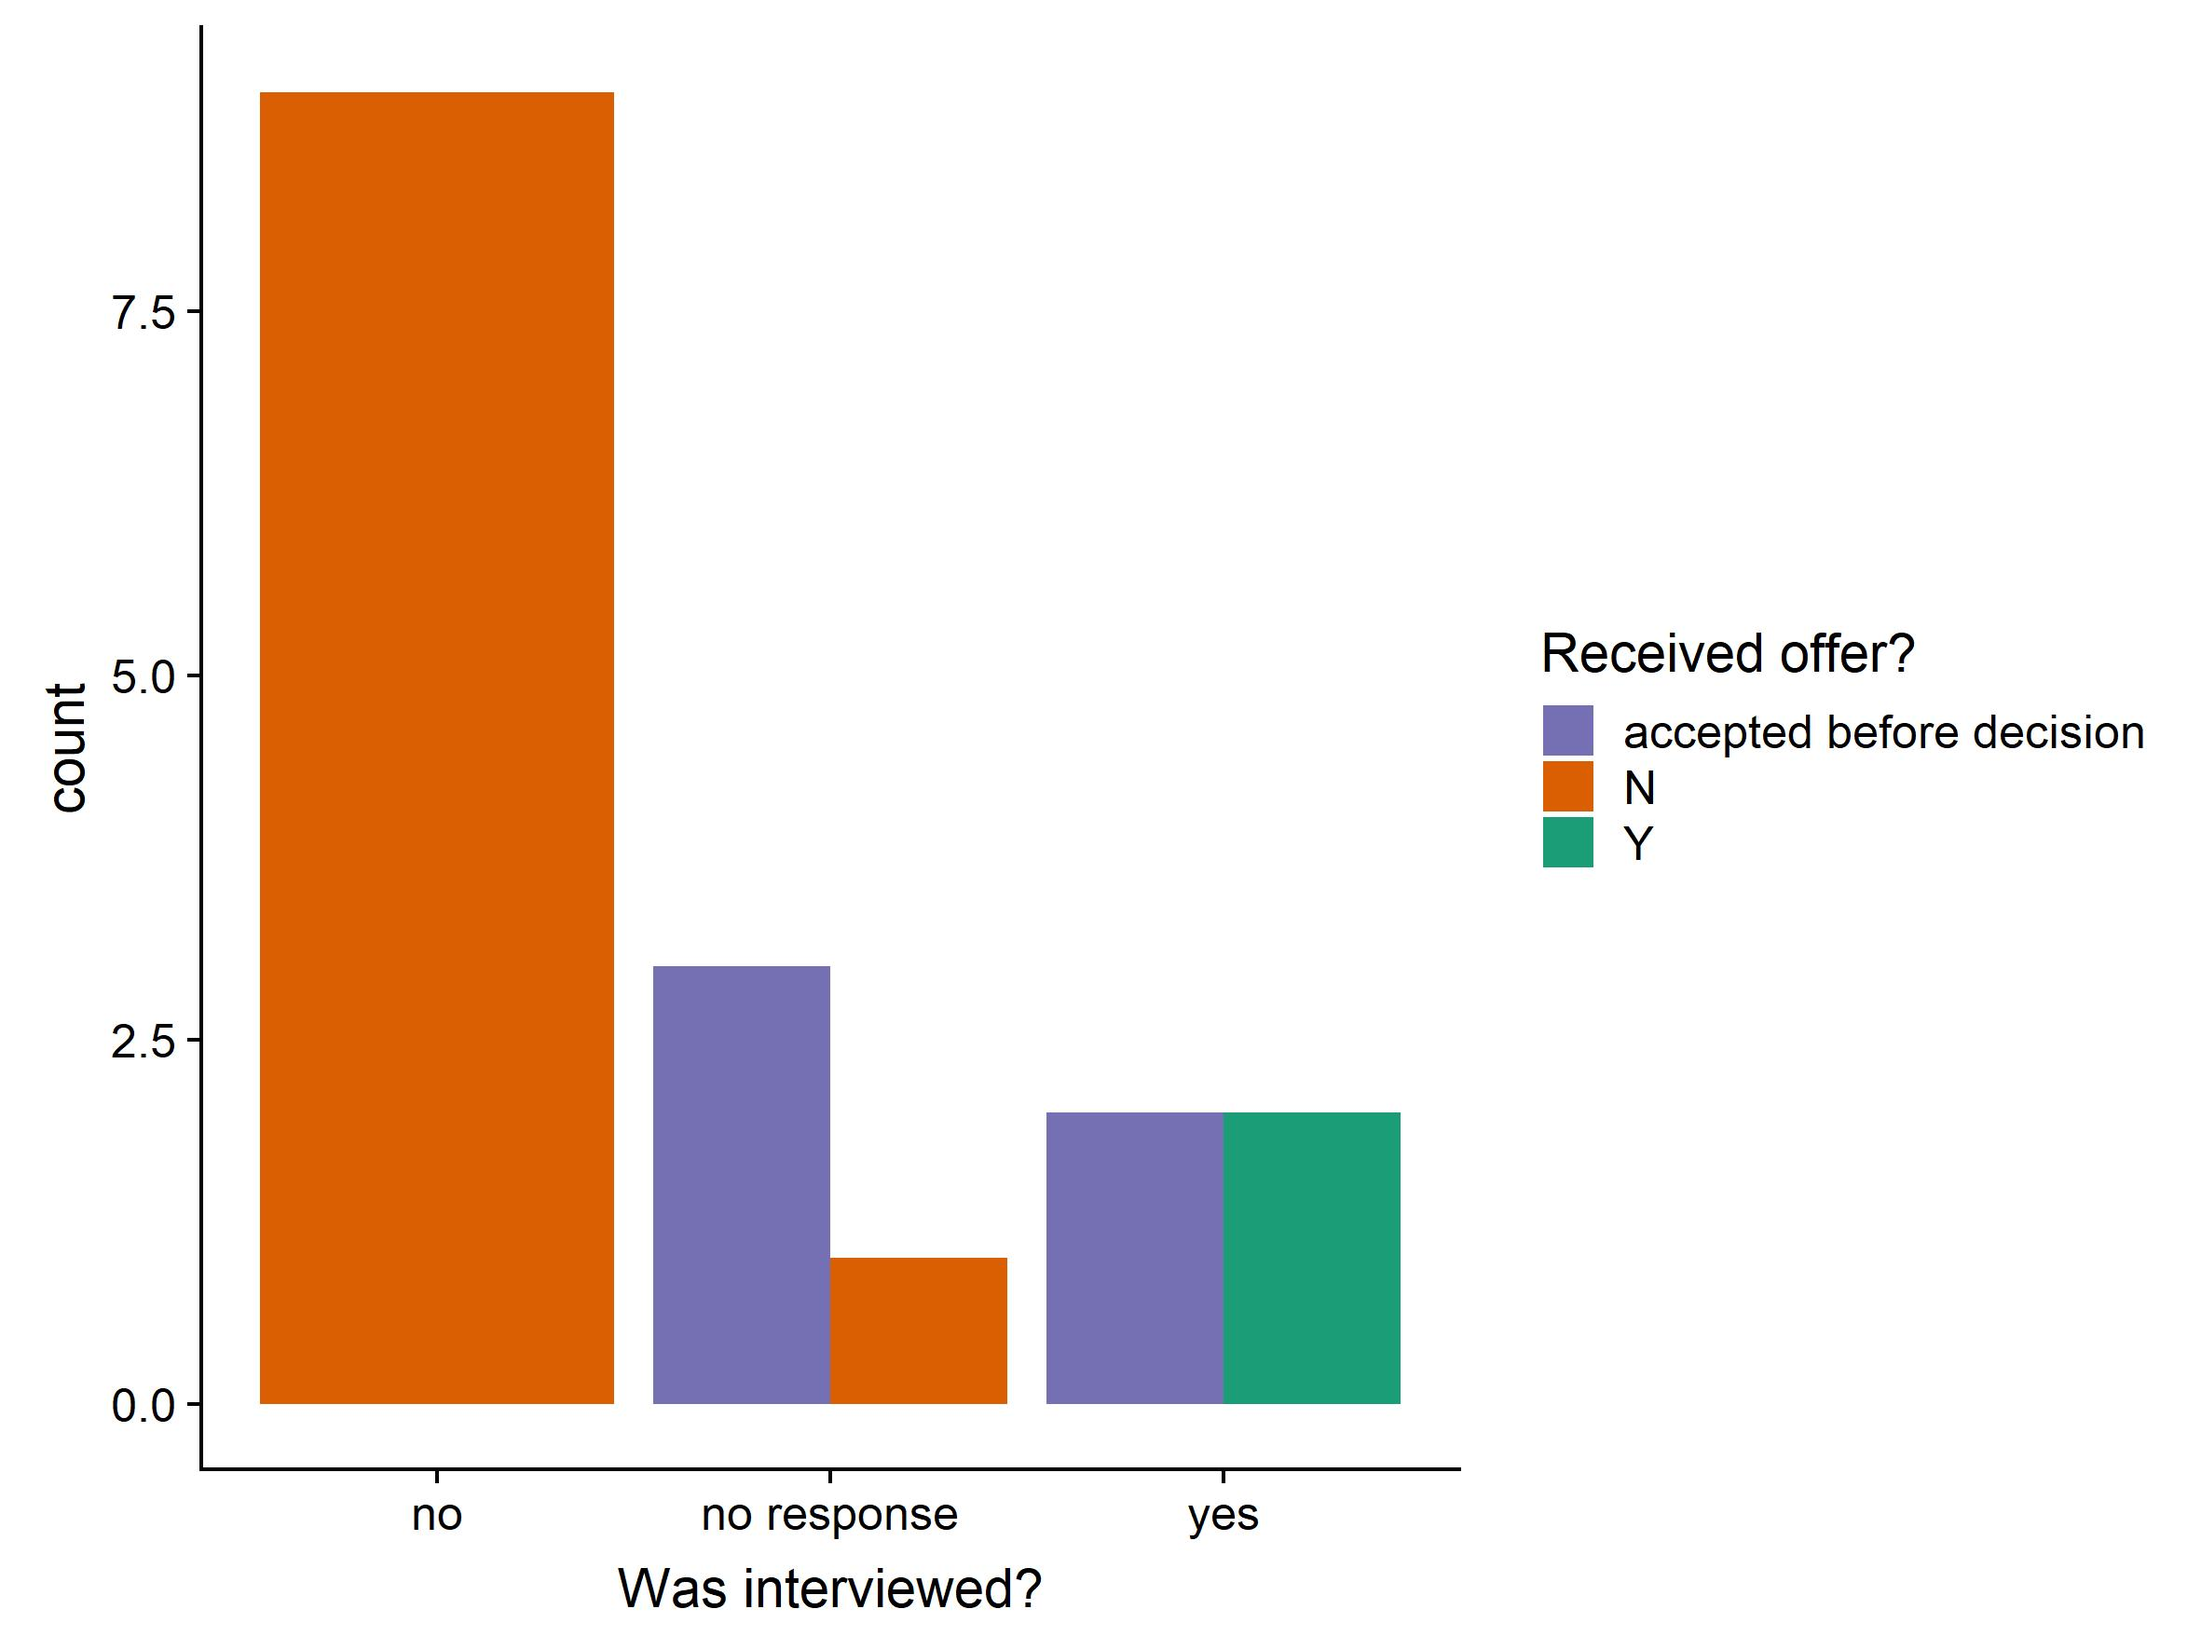
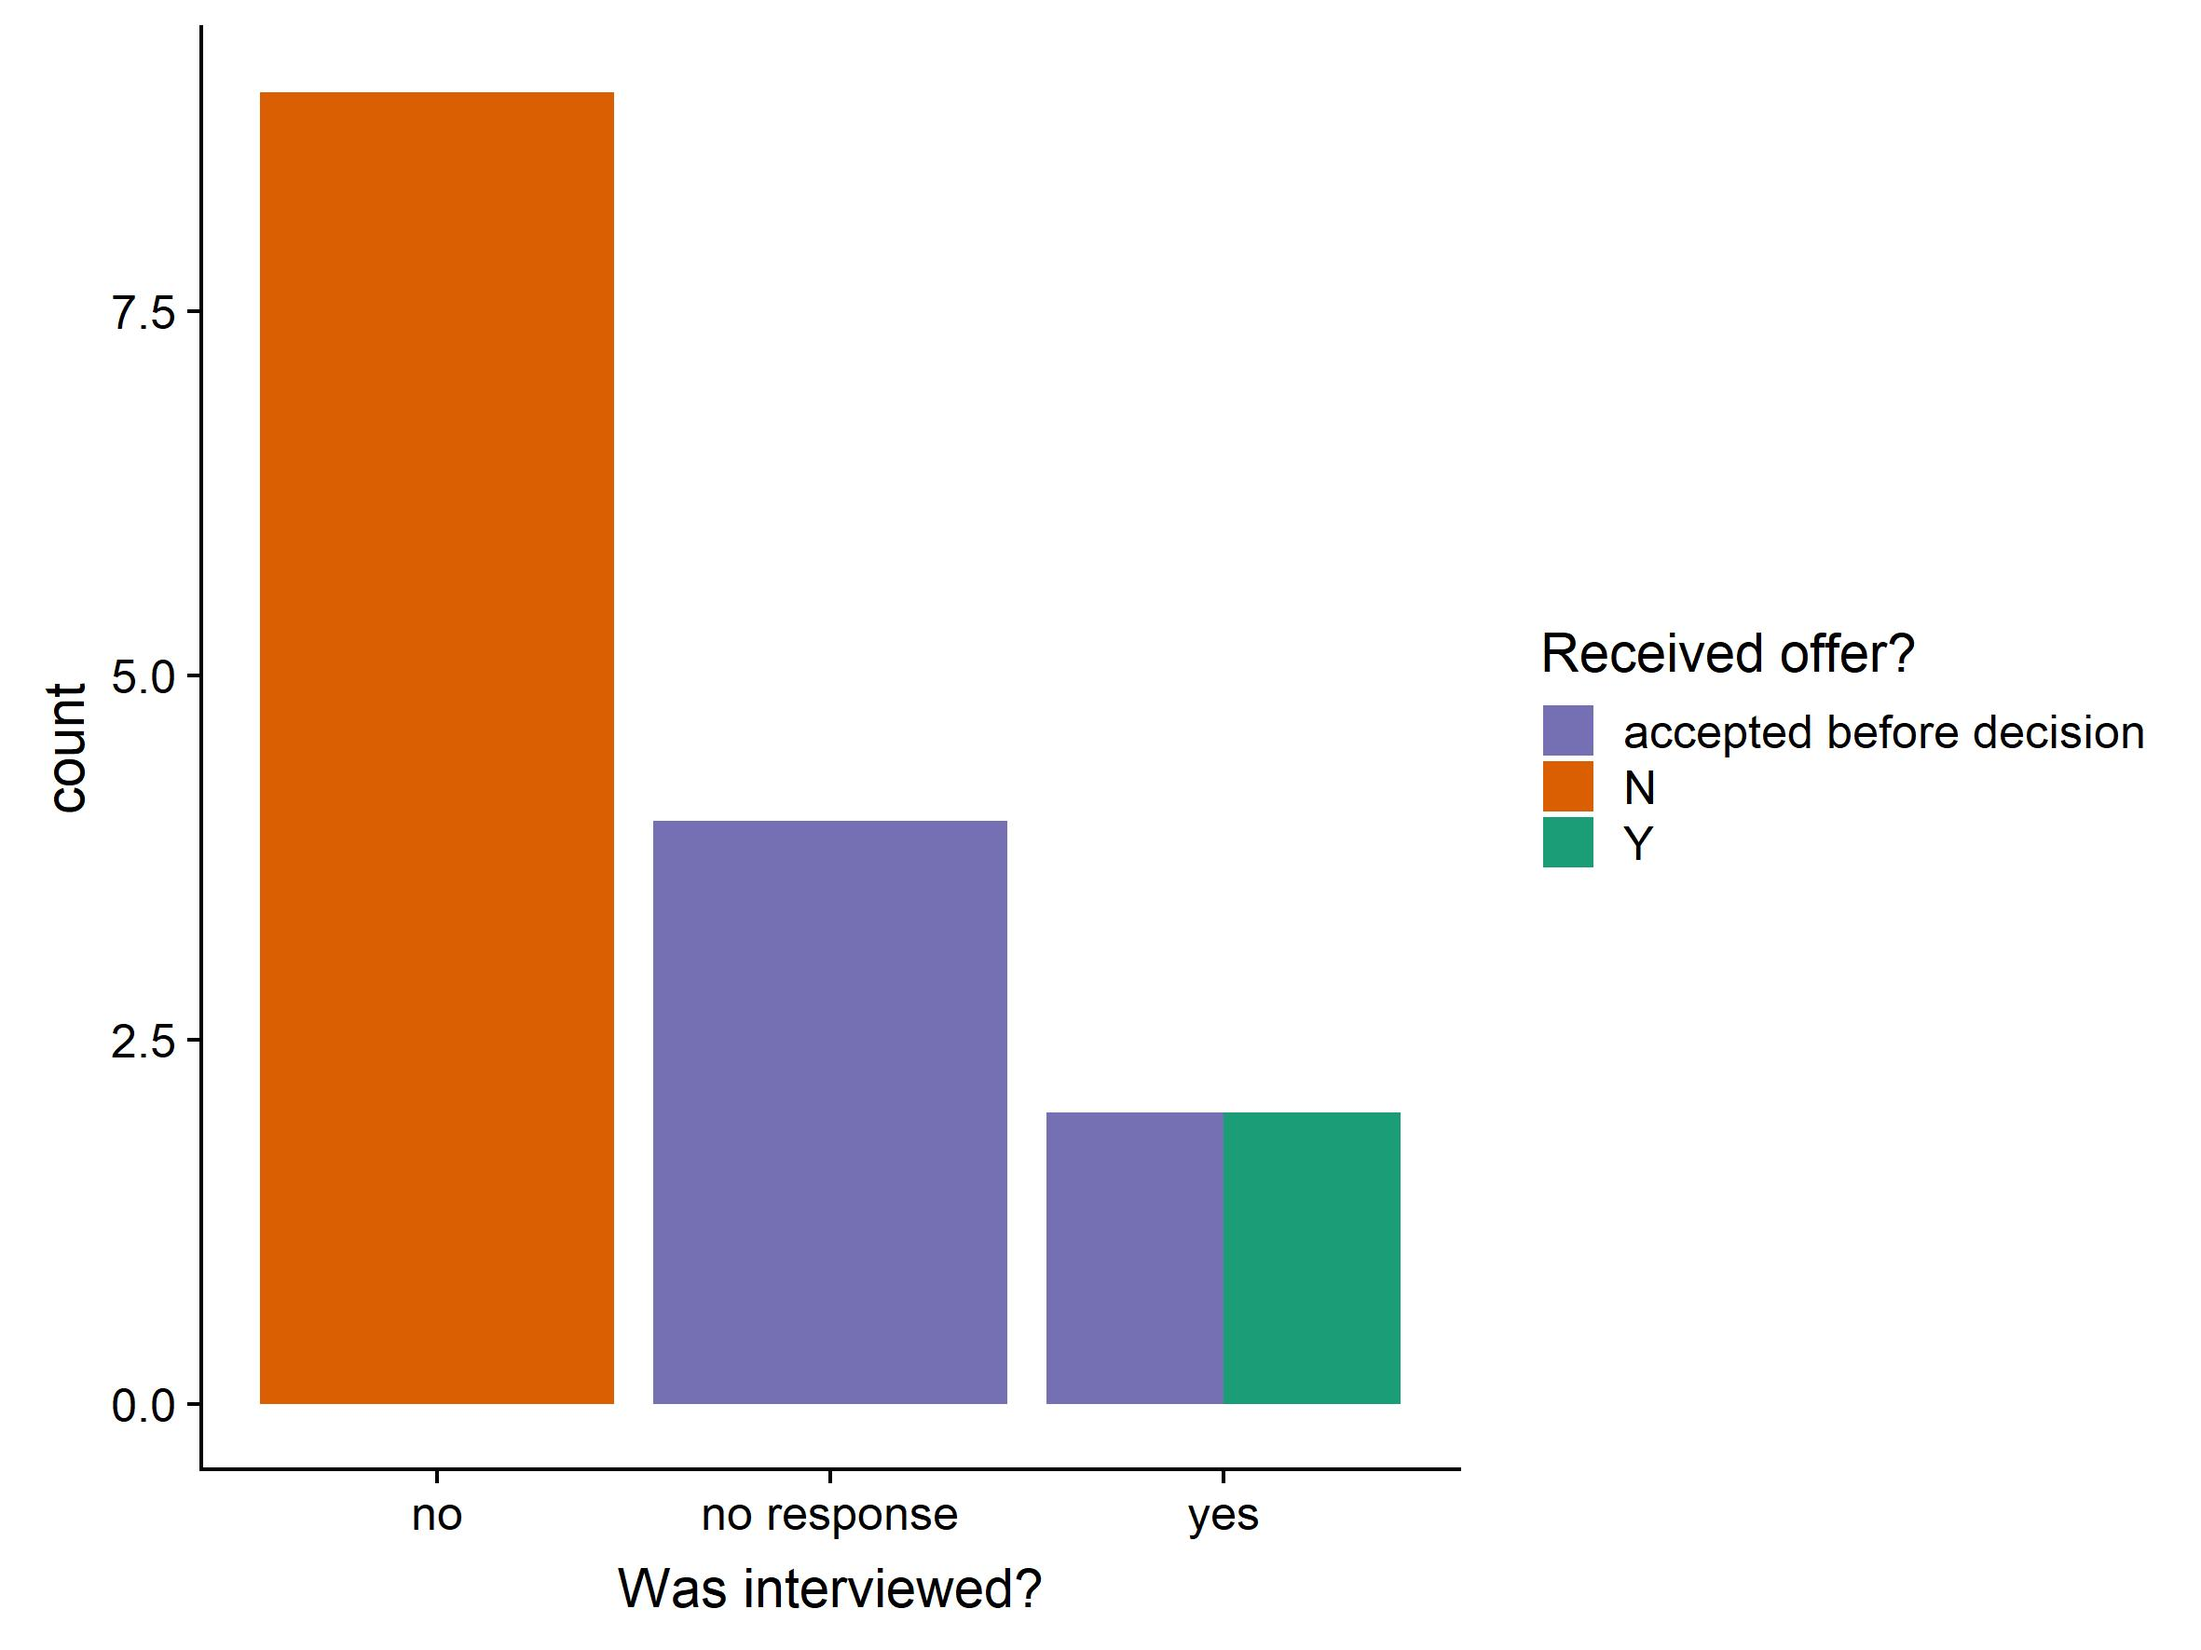
INHS job search data

Changed region(s): [[0.2782, 0.4969, 0.4636, 0.8696]]

diff --git a/rejection.md b/rejection.md
@@ -29,11 +29,16 @@ Image Description Bar chart showing year on the x axis, and count on the y, with
 
 
 ## Jobs 
-This is the data on the job search that resulted in my current position. 
+This is the data on the job search that resulted in my postdoc at Mississippi State University from 2017-2019.  
 
-<img   alt=""  src="https://raw.githubusercontent.com/aurielfournier/aurielfournier.github.io/master/images/jobs.jpeg">
+<img   alt=""  src="https://raw.githubusercontent.com/aurielfournier/aurielfournier.github.io/master/images/postdoc_jobs.jpeg">
 
 Image Description Bar Chart, showing that I applied for 40 jobs, and was not interviewed for 36 of them. Of the 4 I was interviewed for, I received 2 offers. 
 
 
+This is the data for the job search that resulted in my position at the Illinois Natural History Survey. 
+
+<img   alt=""  src="https://raw.githubusercontent.com/aurielfournier/aurielfournier.github.io/master/images/INHS_jobs.jpeg">
+
+Image Description - Bar Chart, showing I applied for 17 jobs total. 9 of which I did not get an interview for. 4 of which I never heard back from at all. 4 of which I was interviewed for. I received 2 offers from those interviews, and I accepted the job at INHS before hearing back from the other two. 
 
